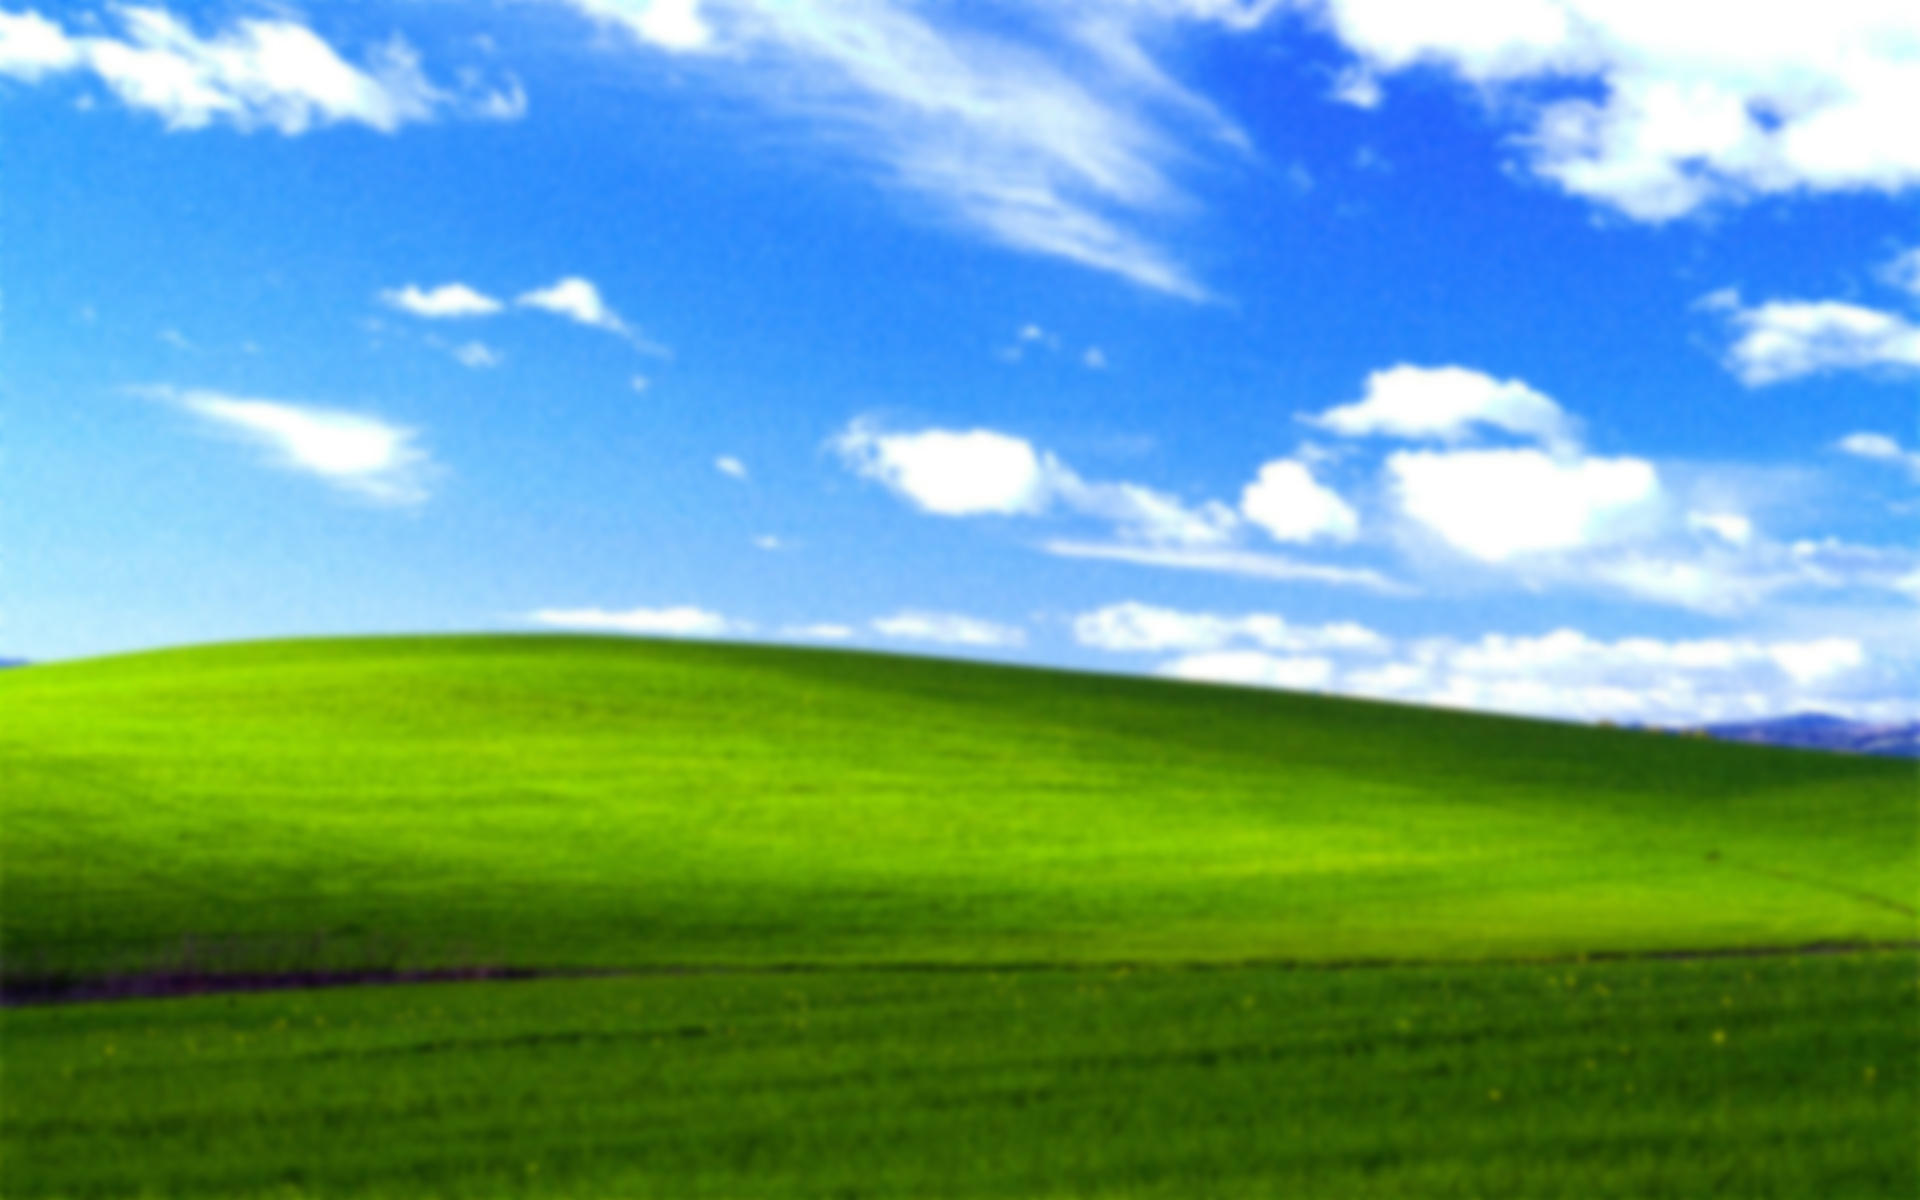
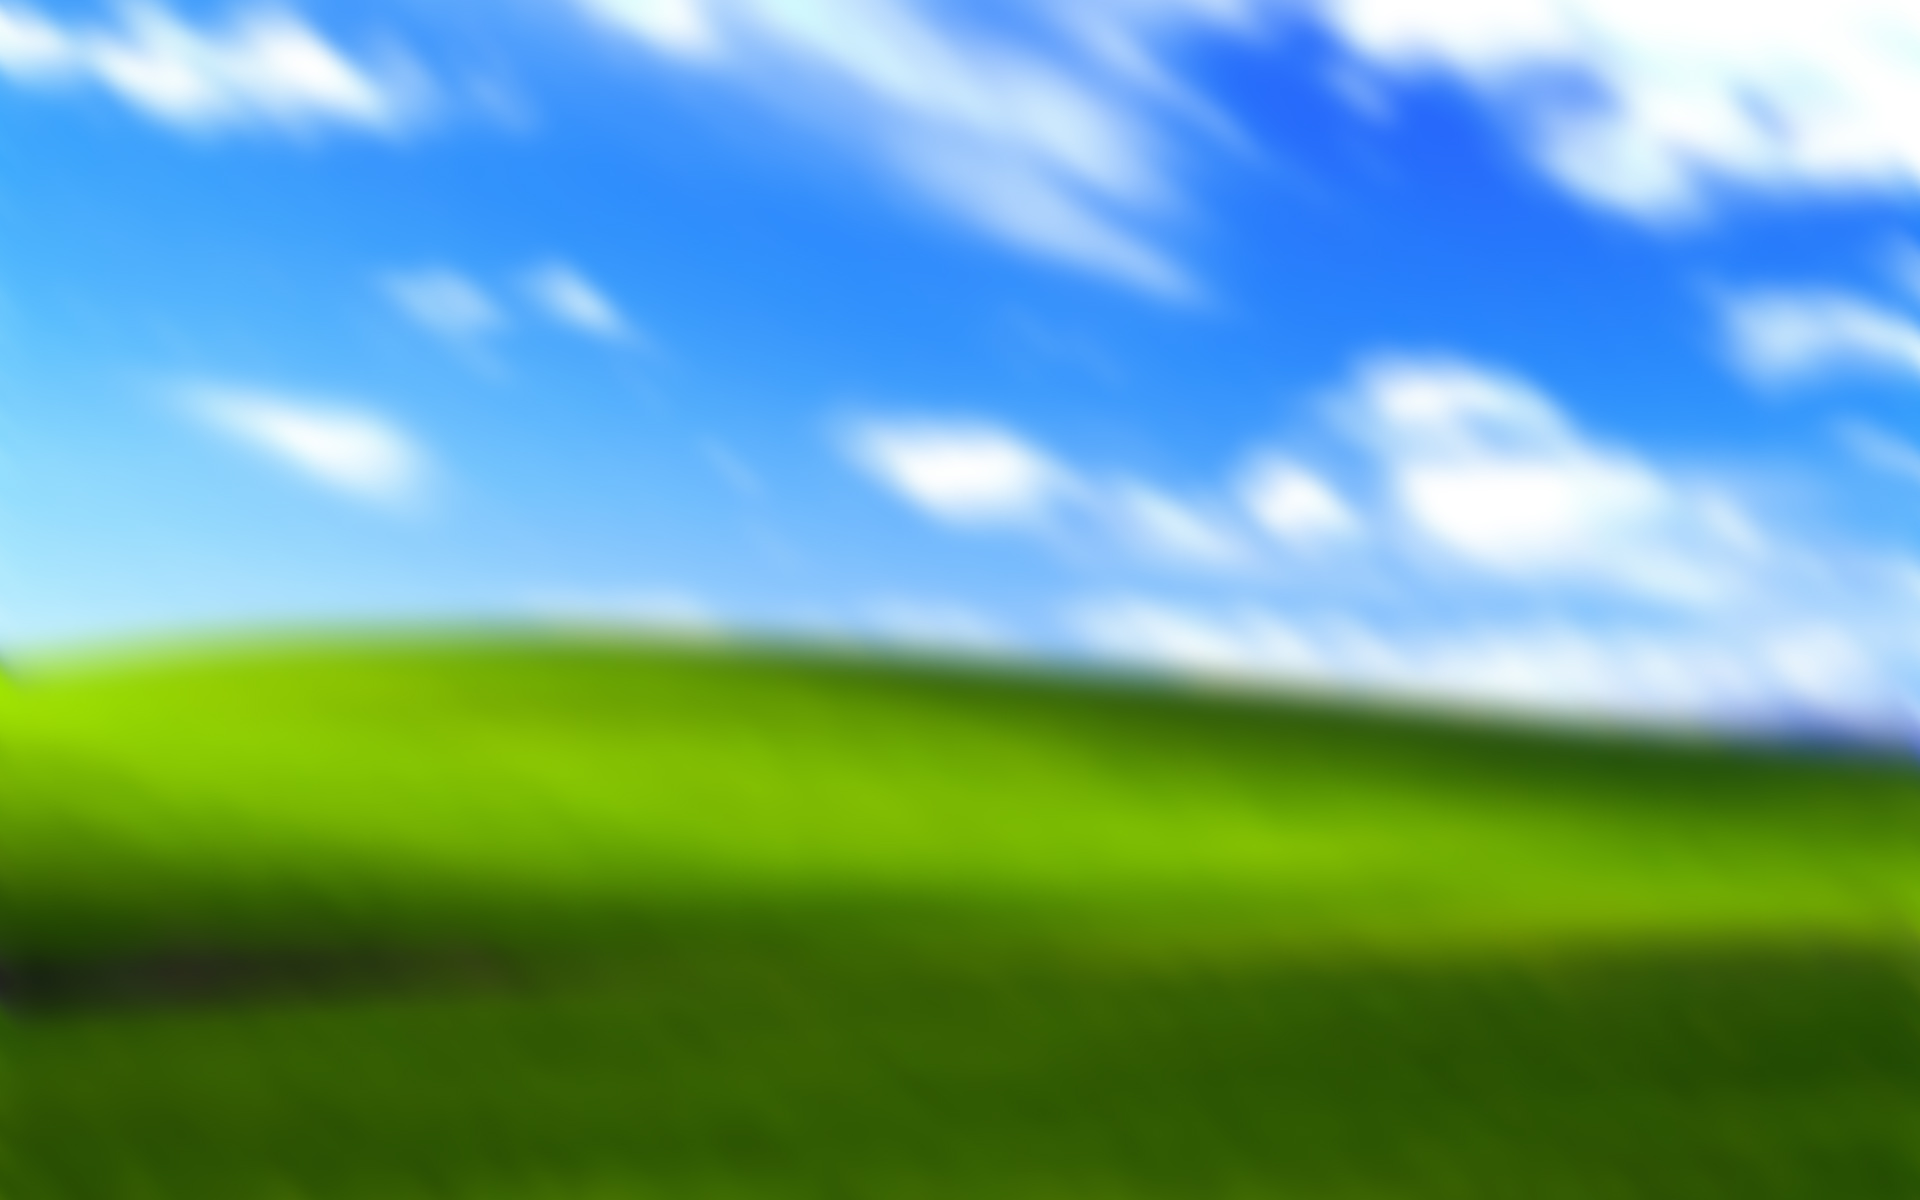
Blur BG

diff --git a/style Fashion.css b/style Fashion.css
@@ -1,12 +1,12 @@
 /* DESIGN TOKENS — adjust site colours and typography here */
 :root {
-    --bg: #335d02;
-    --panel: #f5f5f5;
+    --bg: #375316;
+    --panel: #ffffff63;
     --surface: #a83c3c;
-    --text: #203b92;
+    --text: #213472;
     --muted: #dab92b;
-    --line: #2b3a51;
-    --accent: #189e14 ;
+    --line: #183053;
+    --accent: #141a14 ;
     --accent2: #d81111;
     --max: 1180px;
     --radius: 18px;
